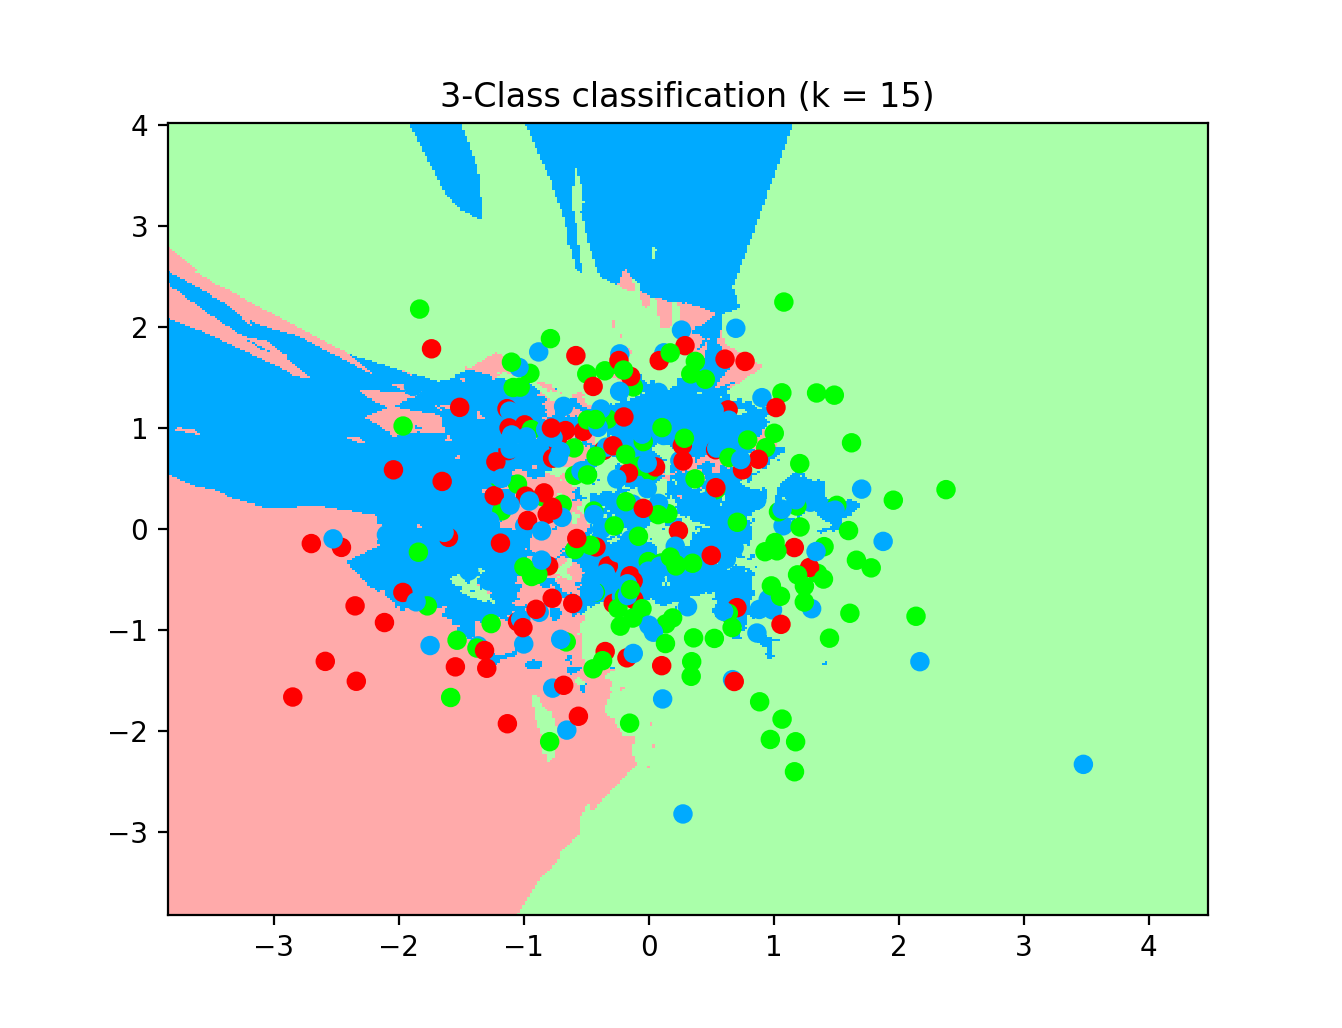
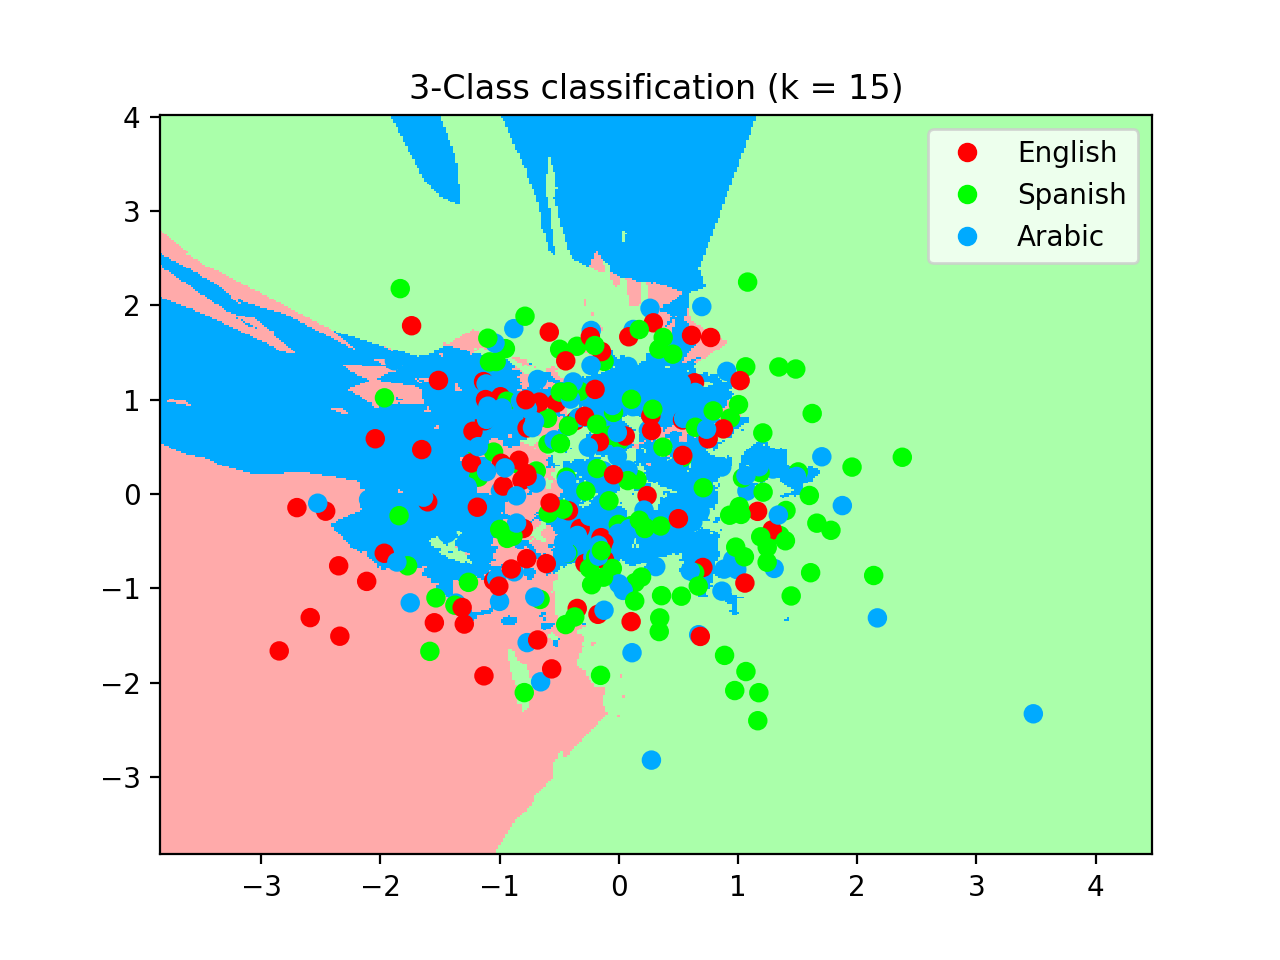
changes

diff --git a/index.html b/index.html
@@ -335,10 +335,11 @@ As we can see in the above plot, the English accents from Spanish and Arabic are
 </table>
 <h3>
 <a id="Experiments" class="anchor" href="#methodology" aria-hidden="true"><span aria-hidden="true" class="octicon octicon-link"></span></a>References</h3>
-
-
-
-      <footer class="site-footer">
+<a href="https://www.kaggle.com/rtatman/speech-accent-archive"> [1] </a>Weinberger, Steven. (2015). Speech Accent Archive. George Mason University. Retrieved from http://accent.gmu.edu <br>
+<a href="http://cs229.stanford.edu/proj2017/final-reports/5244230.pdf">[2]</a> Sheng, L.M. (2017). Deep Learning Approach To Accent Classification. <br>
+<a href="https://digitalcommons.usu.edu/cgi/viewcontent.cgi?article=8156&context=etd">[3]</a> Crypto (n.d.). Retrieved from http://practicalcryptography.com/miscellaneous/machine-learning/guide-mel-frequency-cepstral-coefficients-mfccs/. <br>
+<a href="http://practicalcryptography.com/miscellaneous/machine-learning/guide-mel-frequency-cepstral-coefficients-mfccs/">[4] </a>Amlathe, P. (2018). Standard Machine Learning Techniques in Audio Beehive Monitoring: Classification of Audio Samples with Logistic Regression, K-Nearest Neighbor, Random Forest and Support Vector Machine.
+    <footer class="site-footer">
         <span class="site-footer-owner"><a href="https://github.gatech.edu/sratnam6/sratnam6.github.io">Pinning Accents: A Study on Accent Classifiers </a> is maintained by <a href="https://github.gatech.edu/sratnam6">sratnam6</a>.</span>
 
         <span class="site-footer-credits">This page was generated by <a href="https://pages.github.com">GitHub Pages</a> using the <a href="https://github.com/jasonlong/cayman-theme">Cayman theme</a> by <a href="https://twitter.com/jasonlong">Jason Long</a>.</span>

diff --git a/supervised_models.py b/supervised_models.py
@@ -91,11 +91,12 @@ x, xt, y, yt = train_test_split(Xf,yf,test_size=0.20,random_state=42,stratify=yf
 # plt.show()
 
 # K Nearest Neighbours
-# from sklearn.neighbors import KNeighborsClassifier
-# knn = KNeighborsClassifier(n_neighbors=15).fit(x,y)
-# print("KNN Train:"+str(knn.score(x,y)))
+from sklearn.neighbors import KNeighborsClassifier
+x = x[:,:2]
+knn = KNeighborsClassifier(n_neighbors=15).fit(x,y)
+print("KNN Train:"+str(knn.score(x,y)))
 # print("KNN Test:"+str(knn.score(xt,yt)))
-# print("KNN Confusion Matrix:")
+print("KNN Confusion Matrix:")
 # print(confusion_matrix(yt,knn.predict(xt)))
 # plt.subplot()
 # sn.heatmap(confusion_matrix(yt,knn.predict(xt)), annot=True,fmt='g',cmap='Greens',square=True)
@@ -104,24 +105,25 @@ x, xt, y, yt = train_test_split(Xf,yf,test_size=0.20,random_state=42,stratify=yf
 # t -= 0.5 # Subtract 0.5 from the top
 # plt.ylim(b, t)
 # plt.show()
-# x = x[:,:2]
-# x_min, x_max = x[:, 0].min() - 1, x[:, 0].max() + 1
-# y_min, y_max = x[:, 1].min() - 1, x[:, 1].max() + 1
-# xx, yy = np.meshgrid(np.arange(x_min, x_max, 0.02),np.arange(y_min, y_max, 0.02))
-# # predict class using data and kNN classifier
-# Z = knn.predict(np.c_[xx.ravel(), yy.ravel()])
-#
-# # Put the result into a color plot
-# Z = Z.reshape(xx.shape)
-# plt.figure()
-# plt.pcolormesh(xx, yy, Z, cmap=cmap_light)
-#
-# # Plot also the training points
-# plt.scatter(x[:, 0], x[:, 1], c=y, cmap=cmap_bold)
-# plt.xlim(xx.min(), xx.max())
-# plt.ylim(yy.min(), yy.max())
-# plt.title("3-Class classification (k = %i)" % (15))
-# plt.show()
+
+x_min, x_max = x[:, 0].min() - 1, x[:, 0].max() + 1
+y_min, y_max = x[:, 1].min() - 1, x[:, 1].max() + 1
+xx, yy = np.meshgrid(np.arange(x_min, x_max, 0.02),np.arange(y_min, y_max, 0.02))
+# predict class using data and kNN classifier
+Z = knn.predict(np.c_[xx.ravel(), yy.ravel()])
+
+# Put the result into a color plot
+Z = Z.reshape(xx.shape)
+plt.figure()
+plt.pcolormesh(xx, yy, Z, cmap=cmap_light)
+# Plot also the training points
+ax = plt.scatter(x[:, 0], x[:, 1], c=y, cmap=cmap_bold)
+classes = ['English', 'Spanish','Arabic']
+plt.legend(handles=ax.legend_elements()[0], labels=classes)
+plt.xlim(xx.min(), xx.max())
+plt.ylim(yy.min(), yy.max())
+plt.title("3-Class classification (k = %i)" % (15))
+plt.show()
 
 # Naive Bayes
 # from sklearn.naive_bayes import GaussianNB
@@ -130,17 +132,18 @@ x, xt, y, yt = train_test_split(Xf,yf,test_size=0.20,random_state=42,stratify=yf
 # print("GNB Test:"+str(gnb.score(xt,yt)))
 # print("GNB Confusion Matrix:")
 # print(confusion_matrix(yt,gnb.predict(xt)))
-# # plt.subplot()
-# # sn.heatmap(confusion_matrix(yt,gnb.predict(xt)), annot=True,fmt='g',cmap='Greens',square=True)
-# # b, t = plt.ylim() # discover the values for bottom and top
-# # b += 0.5 # Add 0.5 to the bottom
-# # t -= 0.5 # Subtract 0.5 from the top
-# # plt.ylim(b, t)
-# # plt.show()
-# plt.scatter(x[:, 0], x[:, 1], c=y, s=50)
+# # # plt.subplot()
+# # # sn.heatmap(confusion_matrix(yt,gnb.predict(xt)), annot=True,fmt='g',cmap='Greens',square=True)
+# # # b, t = plt.ylim() # discover the values for bottom and top
+# # # b += 0.5 # Add 0.5 to the bottom
+# # # t -= 0.5 # Subtract 0.5 from the top
+# # # plt.ylim(b, t)
+# # # plt.show()
+# ax1 = plt.scatter(x[:, 0], x[:, 1], c=y, s=50)
 # lim = plt.axis()
-# plt.scatter(xt[:, 0], xt[:, 1], c=yt, s=20)
+# ax2 = plt.scatter(xt[:, 0], xt[:, 1], c=yt, s=20)
 # plt.axis(lim)
+# leg1 = plt.legend((ax1,ax2), ('Training data', 'Testing data'))
 # plt.title('Gaussian Naive Bayes classification')
 # plt.show()
 
@@ -168,22 +171,22 @@ x, xt, y, yt = train_test_split(Xf,yf,test_size=0.20,random_state=42,stratify=yf
 
 
 # # Random Forests
-from sklearn.ensemble import RandomForestClassifier
-
-parameters = {'n_estimators':[3,5,7,10,13,15,20,25], 'max_depth':[None,10,20,30,40,50]}
-rfc = RandomForestClassifier()
-clf = GridSearchCV(rfc, parameters,cv=10, n_jobs=7)
-clf.fit(x,y)
-print("RandomForestClassifier Train:"+str(clf.score(x,y)))
-print("RandomForestClassifier Test:"+str(clf.score(xt,yt)))
-print("Random Confusion Matrix:")
-plt.subplot()
-sn.heatmap(confusion_matrix(yt,clf.predict(xt)), annot=True,fmt='g',cmap='Greens',square=True)
-b, t = plt.ylim() # discover the values for bottom and top
-b += 0.5 # Add 0.5 to the bottom
-t -= 0.5 # Subtract 0.5 from the top
-plt.ylim(b, t)
-plt.show()
+# from sklearn.ensemble import RandomForestClassifier
+#
+# parameters = {'n_estimators':[3,5,7,10,13,15,20,25], 'max_depth':[None,10,20,30,40,50]}
+# rfc = RandomForestClassifier()
+# clf = GridSearchCV(rfc, parameters,cv=10, n_jobs=7)
+# clf.fit(x,y)
+# print("RandomForestClassifier Train:"+str(clf.score(x,y)))
+# print("RandomForestClassifier Test:"+str(clf.score(xt,yt)))
+# print("Random Confusion Matrix:")
+# plt.subplot()
+# sn.heatmap(confusion_matrix(yt,clf.predict(xt)), annot=True,fmt='g',cmap='Greens',square=True)
+# b, t = plt.ylim() # discover the values for bottom and top
+# b += 0.5 # Add 0.5 to the bottom
+# t -= 0.5 # Subtract 0.5 from the top
+# plt.ylim(b, t)
+# plt.show()
 # print(confusion_matrix(yt,clf.predict(xt)))
 # print(clf.best_params_)
 # print(clf.best_score_)
